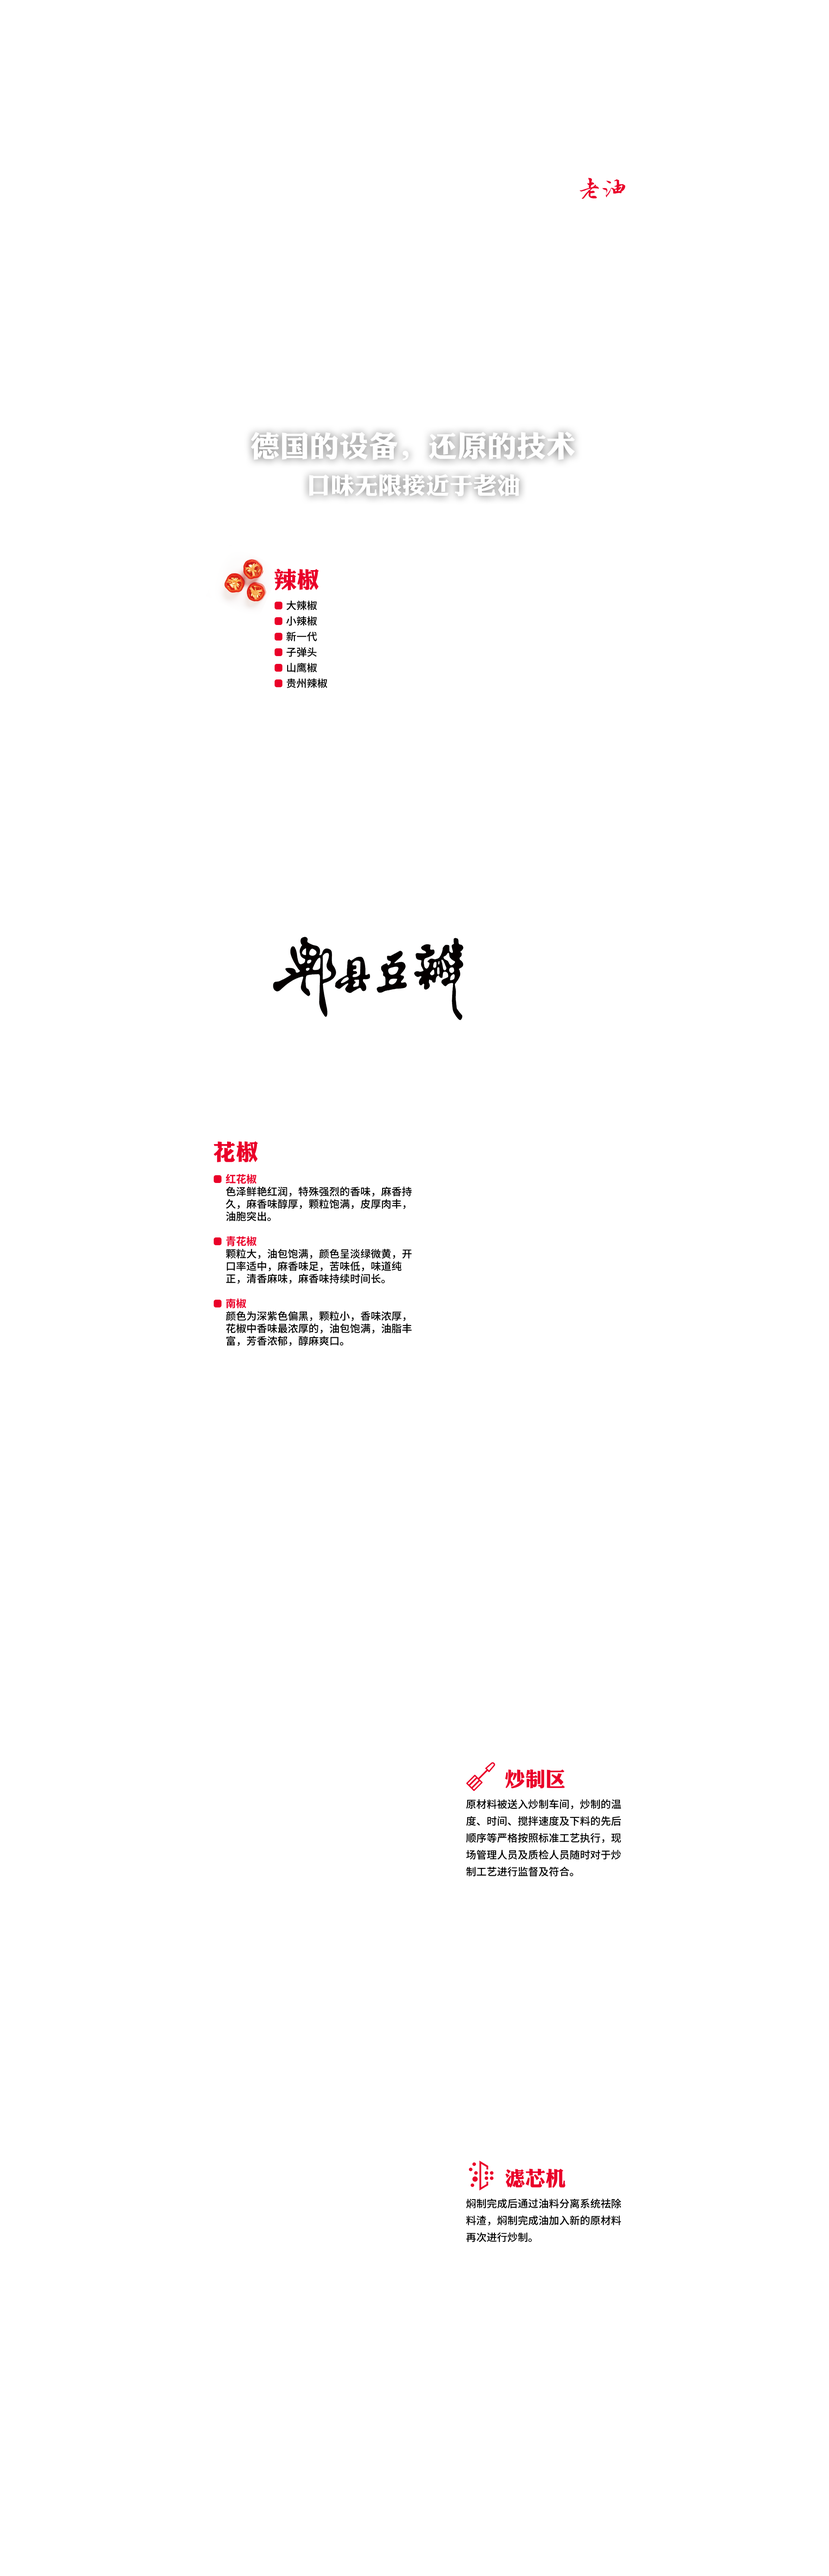
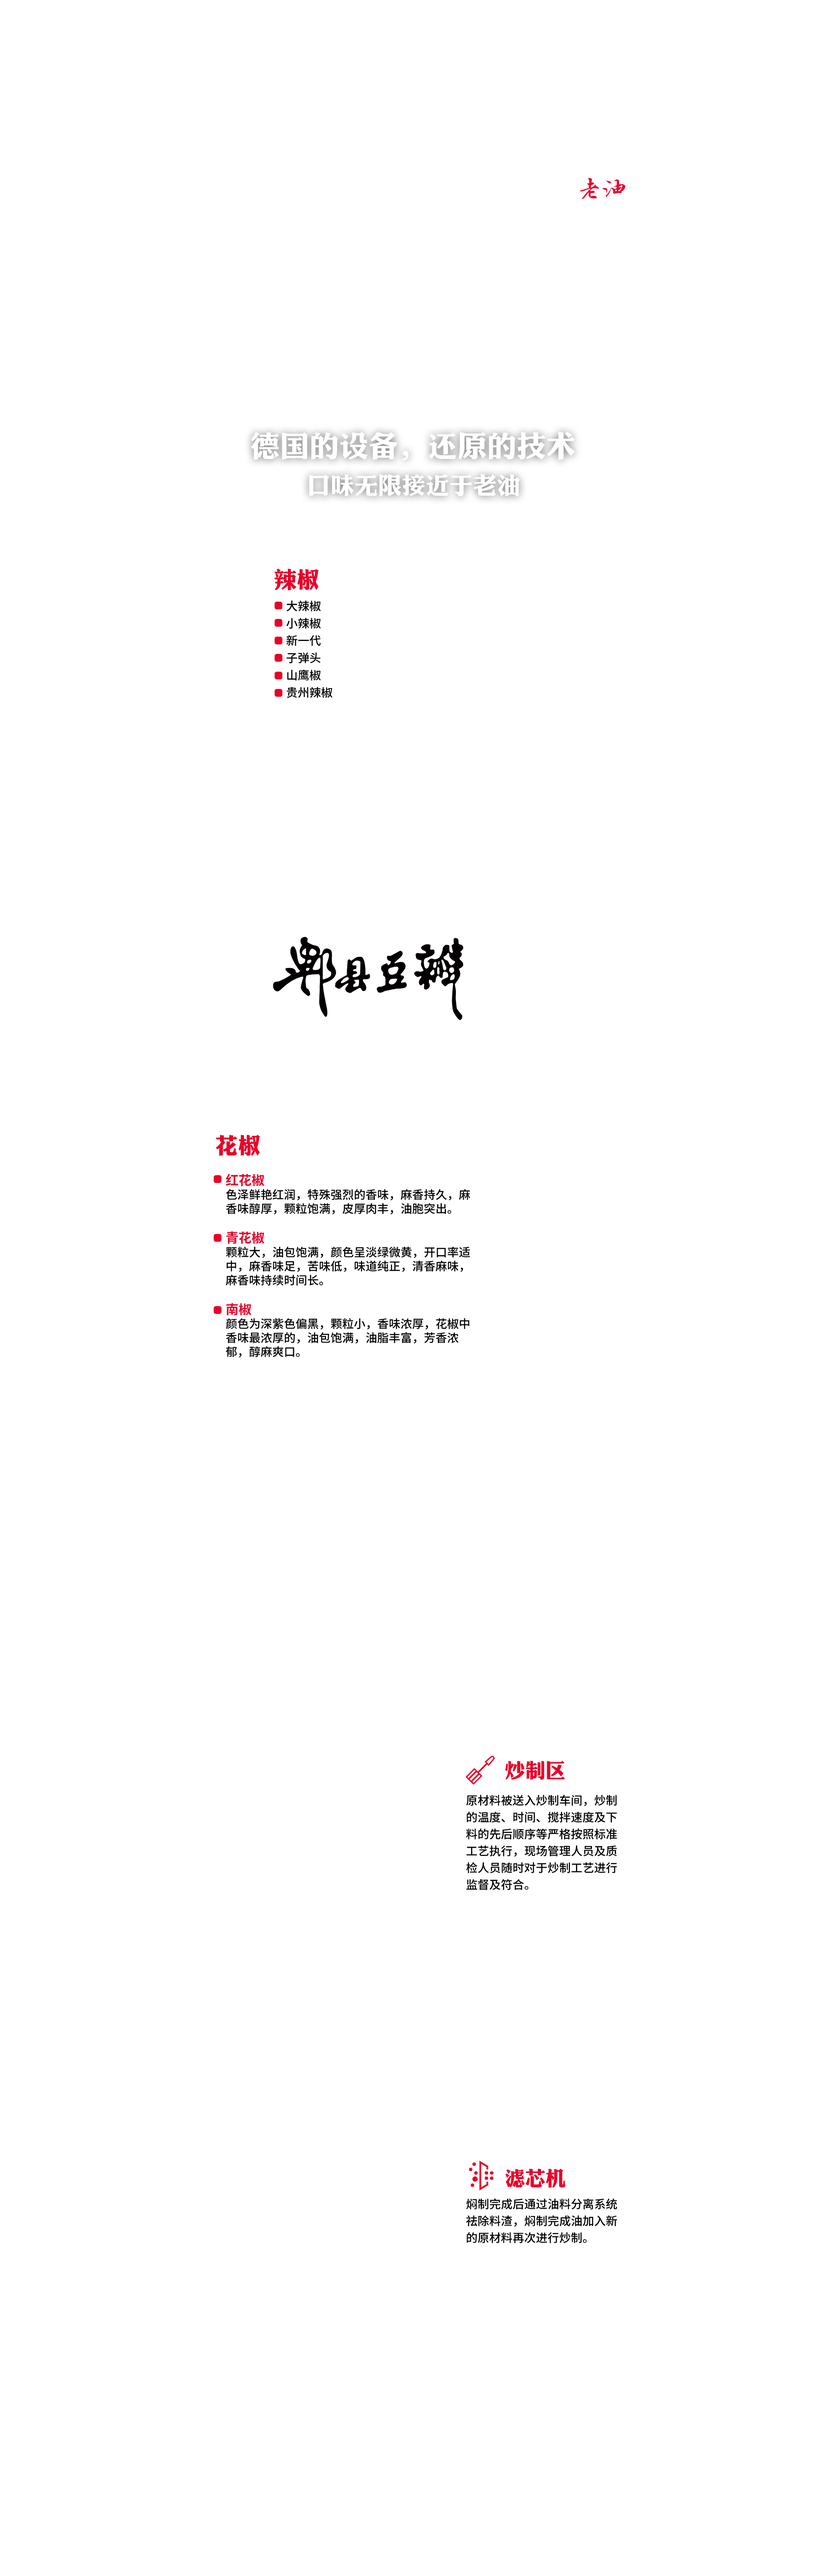
add slider and v2 image

diff --git a/css/Global.css b/css/Global.css
@@ -150,13 +150,36 @@ input, textarea {
     float: right;
     margin-left:;
 }
+.menu-wrapper {
+    position: fixed;
+    top: 0;
+    left: 0;
+    transform: translate(0,0);
+    transition: transform 0.3s ease-in;
+}
+.menu-slider {
+    width: 8em;
+    height: 16em;
+    background-color: #fff;
+    box-shadow: 0 1px 8px rgba(0, 0, 0, 0.5);
+}
+.menu-slider img {
+    width: 6em;
+    min-width: 50px;
+
+}
 
 .menu {
-    position: fixed;
-    left: 1.25em;
+    position: absolute;
+    left: 100%;
     top: 0;
-    z-index: 20;
+    z-index: 30;
     box-shadow: 0 1px 8px rgba(0, 0, 0, 0.5);
+}
+
+.menu-slider-left-ani {
+    transform: translate(-100%,0);
+    transition: transform 0.3s ease-in;
 }
 
 .menu-title {
@@ -181,7 +204,7 @@ input, textarea {
 @media screen and (max-width: 640px) {
 
     .menu {
-        left: 0;
+        /*left: 0;*/
     }
 
 }

diff --git a/html/index.html b/html/index.html
@@ -224,22 +224,24 @@
 			</div>	
 		</div>
 	</div>
-
 	<div class="rect-1">
 		<div class="title-1">
 			<img src="../image/rect1-title.png" />
 		</div>
 	</div>
-
-	<div class="menu">
-		<div class="menu-title">
-			<img src="../image/menu-title.png">
+	<div class="menu-wrapper">
+		<div class="menu">
+			<div class="menu-title">
+				<img src="../image/menu-title.png">
+			</div>
+			<div class="menu-icon">
+				<img src="../image/menu-icon.png">
+			</div>
 		</div>
-		<div class="menu-icon">
-			<img src="../image/menu-icon.png">
+		<div class="menu-slider">
+			<div><img src="../image/menu-text.png"></div>
 		</div>
 	</div>
-
 	<div class="global-mask">
 		<div class="loading-info">
 			<span>Loading ... </span>

diff --git a/js/home.js b/js/home.js
@@ -61,6 +61,8 @@ var smallText2 = $('.bg4-title-2 .bg2-text-mask');
 var allImages;
 var globalMask = $('.global-mask');
 var loadingNum = globalMask.find('.loading-num');
+var menuSlider = $('.menu-wrapper');
+var menuBar = $('.menu-icon');
 /* 
  * Visual dom elements definition
  * End
@@ -114,6 +116,9 @@ $(document).ready(function() {
 		// win.scrollTop(0);
 	}, 150);
 });
+menuBar.on('click',function() {
+	menuSlider.toggleClass("menu-slider-left-ani")
+})
 function init() {
 	win.scrollTop(0);
 	windowResized();

diff --git a/css/home.css b/css/home.css
@@ -708,7 +708,7 @@
     }
 
     .menu {
-        left: 0;
+        /*left: 0;*/
     }
 }
 
